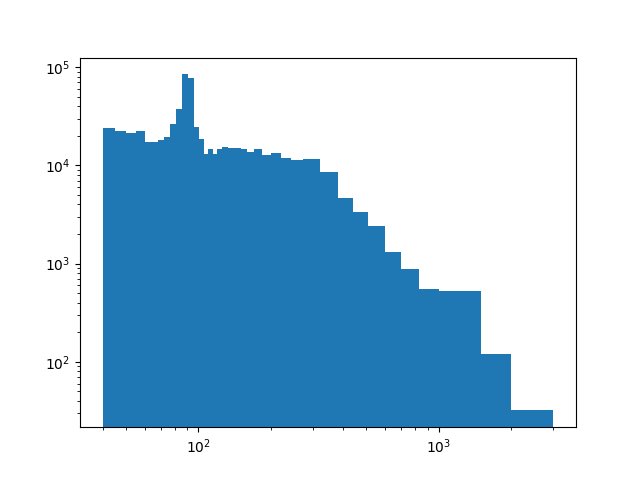
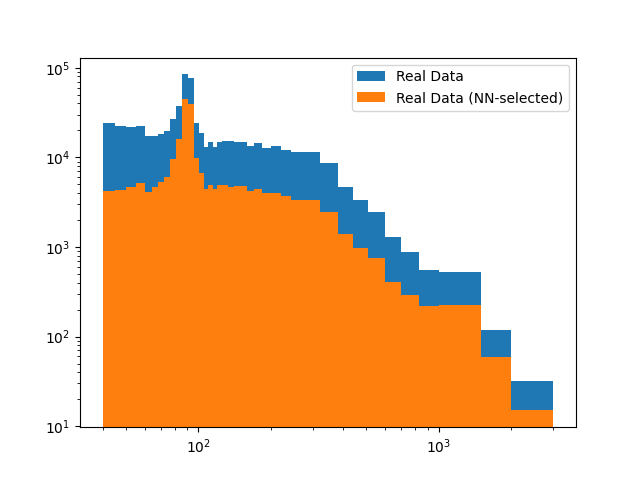
Compare NN selected data vs initial

diff --git a/scripts/4_plot_real_data.py b/scripts/4_plot_real_data.py
@@ -8,7 +8,7 @@ from src.analysis_utils import (
 import awkward as ak
 import numpy as np
 import matplotlib.pyplot as plt
-from tensorflow.keras.models import load_model
+from tensorflow.keras.models import load_model # type: ignore
 import joblib
 
 model_file = "results/electron_classifier.h5"
@@ -30,34 +30,9 @@ L_int = 8746231868.215154648 / 1e6; # pb^-1
 sigmaDYhigh = 6422.0 # pb
 sigmaDYlow = 20480.0 # pb
 
-branches = [
-    "Electron_pt",
-    "Electron_eta",
-    "Electron_phi",
-    "Electron_mass",
-    "Electron_charge",
-    "genWeight",
-    "Electron_miniPFRelIso_all",
-    "Electron_miniPFRelIso_chg",
-    "Electron_dz",
-    "Electron_dxy",
-    "Electron_ip3d",
-    "Jet_pt",
-    "Jet_eta",
-    "Jet_phi",
-    "Jet_btagDeepFlavB"
-]
-
 events_real = load_dataset(real_data)
-electrons, _ = build_electrons(events_real)
+electrons_real, _ = build_electrons(events_real)
 
-plt.hist(z_mass_numpy(electrons), bins = np.array([40,45,50,55,60,64,68,72,76,81,86,91,96,101,106,110,
-                 115,120,126,133,141,150,160,171,185,200,220,243,273,
-                 320,380,440,510,600,700,830,1000,1500,2000,3000]))
-plt.xscale("log")
-plt.yscale("log")
-plt.savefig("results/real.png")
-plt.show()
 prepared = prepare_input(events_real)
 
 X_real = prepared.values
@@ -66,6 +41,7 @@ X_scaled = scaler.transform(X_real)  # <-- scale using the saved scaler
 y_pred = model.predict(X_scaled, batch_size=1024)  # choose batch_size to fit memory
 threshold = 0.8  # example cutoff
 selected_mask = y_pred.flatten() > threshold
+print(selected_mask)
 selected_events_real = events_real[selected_mask]
 electrons, _ = build_electrons(selected_events_real)
 Z_mass = z_mass_numpy(electrons)
@@ -73,6 +49,17 @@ Z_mass = z_mass_numpy(electrons)
 bins = np.array([40,45,50,55,60,64,68,72,76,81,86,91,96,101,106,110,
                  115,120,126,133,141,150,160,171,185,200,220,243,273,
                  320,380,440,510,600,700,830,1000,1500,2000,3000])
+plt.hist(z_mass_numpy(electrons_real), bins = np.array([40,45,50,55,60,64,68,72,76,81,86,91,96,101,106,110,
+                 115,120,126,133,141,150,160,171,185,200,220,243,273,
+                 320,380,440,510,600,700,830,1000,1500,2000,3000]), label = "Real Data")
+plt.hist(Z_mass, bins = np.array([40,45,50,55,60,64,68,72,76,81,86,91,96,101,106,110,
+                 115,120,126,133,141,150,160,171,185,200,220,243,273,
+                 320,380,440,510,600,700,830,1000,1500,2000,3000]), label = "Real Data (NN-selected)")
+plt.xscale("log")
+plt.yscale("log")
+plt.legend()
+plt.savefig("results/real.png")
+plt.show()
 
 mc_dy_low = load_dataset(root_file = mc_dy_low_data)
 
@@ -110,7 +97,7 @@ plot_hist(
     Z_mass, 
     bins=bins, 
     xlabel="Invariant Mass [GeV]",
-    label="Real data (NN-selected)",
+    label="Real Data (NN-selected)",
     title="Z → ee Invariant Mass",
     histtype="step",
     color = 'k',
